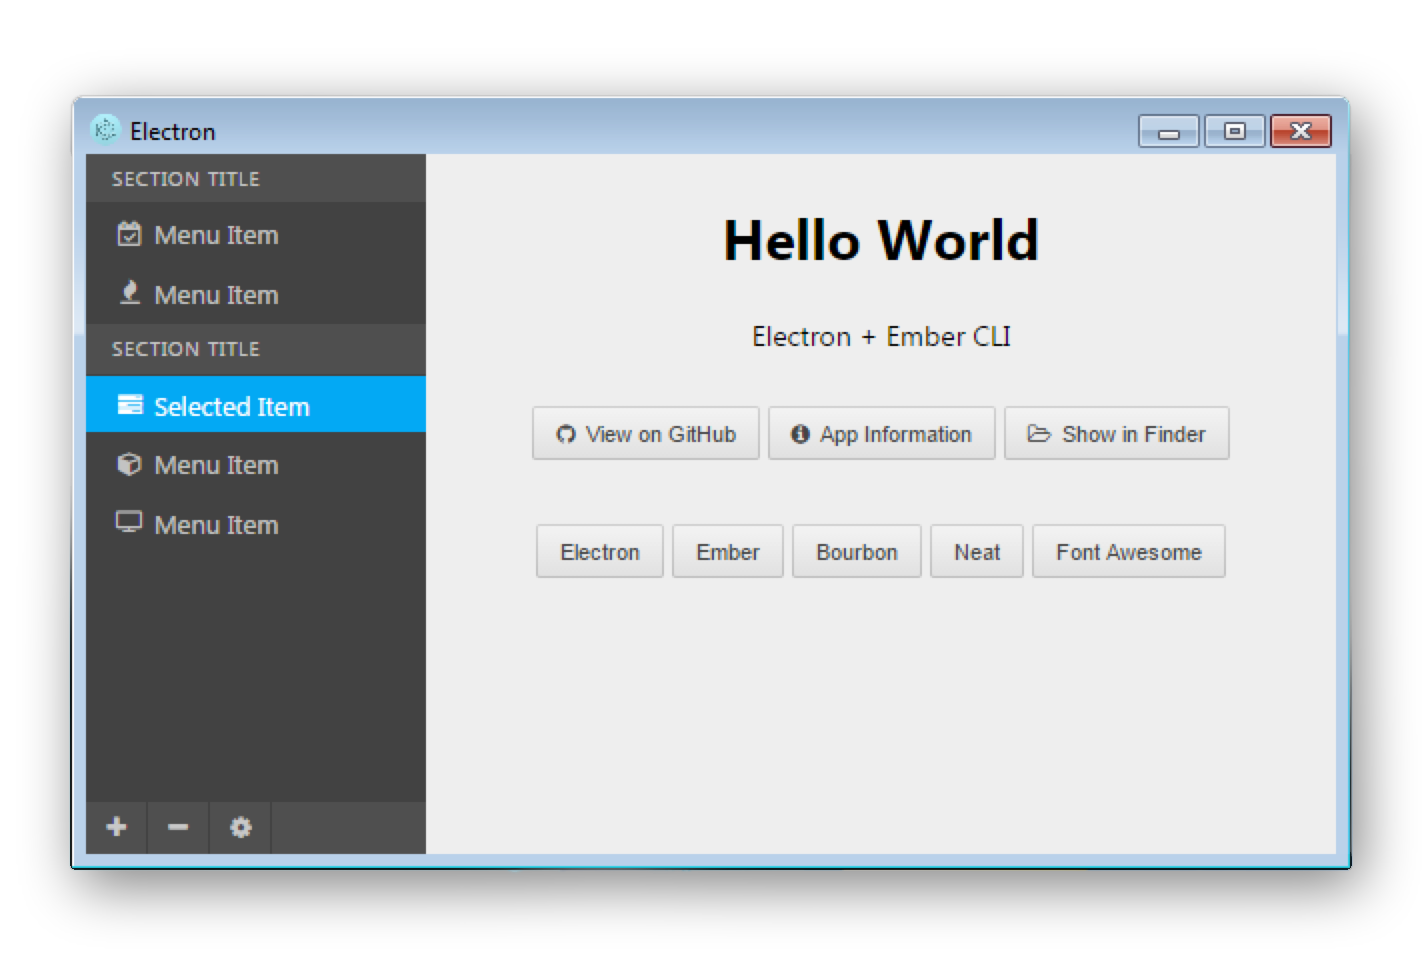
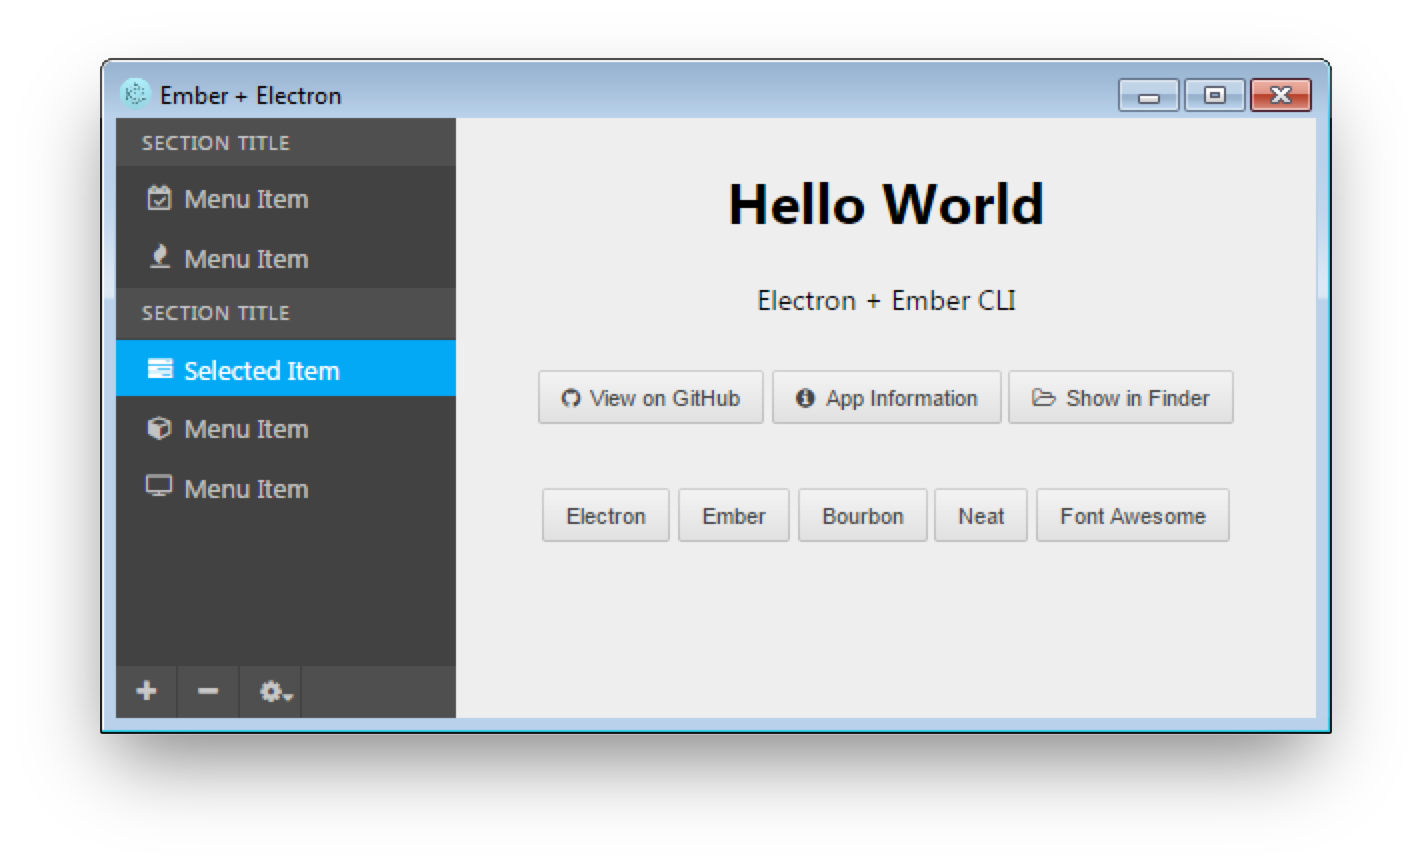
Update height and screenshots

diff --git a/main.js b/main.js
@@ -19,11 +19,11 @@ var mainWindow = null;
 app.on('ready', function() {
   // Create the browser window.
   mainWindow = new BrowserWindow({
-    'height':     600,
-    'min-height': 350,
-    'min-width':  500,
+    'height':     300,
+    'min-height': 300,
+    'min-width':  600,
     'title':      app.getName(),
-    'width':      800
+    'width':      600
   });
 
   // Wait for the page to load before showing the window

diff --git a/development.html b/development.html
@@ -1,5 +1,5 @@
 <!DOCTYPE html>
-<html style="background-color: #eee; height: 100%; padding: 5em 0; width: 100%;">
+<html style="background-color: #eee; height: 100%; padding: 4em 0; width: 100%;">
   <head>
     <style>
       h1,
